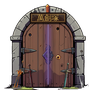
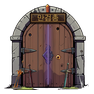
만검총 plaque in Hangul
Claude-Session: https://claude.ai/code/session_01XrBwXBqX3owjaJbW5W7iUD

Changed region(s): [[0.383, 0.1489, 0.6383, 0.234]]

diff --git a/MagicSwordsman/tools/relic_art/export_mangeomchong.py b/MagicSwordsman/tools/relic_art/export_mangeomchong.py
@@ -1,0 +1,21 @@
+from rembg import remove, new_session
+from PIL import Image, ImageFilter
+import numpy as np, cv2
+R='/home/user/Sts2/MagicSwordsman/MagicSwordsman/images/relics/'
+ses=new_session('isnet-general-use')
+for src,name in (('final_closed.png','mangeomchong'),('final_open.png','opened_mangeomchong')):
+    rgb=Image.open(src).convert('RGB'); cut=remove(rgb,session=ses)
+    a=np.array(cut); m=(a[...,3]>40).astype(np.uint8)*255
+    h,w=m.shape; mask=np.zeros((h+2,w+2),np.uint8); ff=m.copy(); cv2.floodFill(ff,mask,(0,0),128)
+    filled=(ff!=128); alpha=np.where(filled,255,0).astype(np.uint8)
+    cut=Image.fromarray(np.dstack([np.array(rgb),alpha])); cut=cut.crop(cut.getbbox())
+    for size,margin,path in ((256,10,R+'big/'+name+'.png'),(94,4,R+name+'.png')):
+        c=cut.copy(); sc=(size-2*margin)/max(c.size); c=c.resize((round(c.width*sc),round(c.height*sc)),Image.LANCZOS)
+        o=Image.new('RGBA',(size,size),(0,0,0,0)); o.alpha_composite(c,((size-c.width)//2,(size-c.height)//2)); o.save(path)
+        if size==94:
+            al=o.getchannel('A').point(lambda v:255 if v>30 else 0).filter(ImageFilter.MaxFilter(5))
+            ol=Image.new('RGBA',o.size,(255,255,255,0)); ol.putalpha(al); ol.save(R+name+'_outline.png')
+s=Image.new('RGBA',(256*2+94*2+40,256),(30,30,36,255))
+s.alpha_composite(Image.open(R+'big/mangeomchong.png'),(0,0)); s.alpha_composite(Image.open(R+'big/opened_mangeomchong.png'),(256,0))
+s.alpha_composite(Image.open(R+'mangeomchong.png'),(532,80)); s.alpha_composite(Image.open(R+'opened_mangeomchong.png'),(640,80))
+s.convert('RGB').save('icons.jpg')

diff --git a/MagicSwordsman/tools/relic_art/compose_mangeomchong.py b/MagicSwordsman/tools/relic_art/compose_mangeomchong.py
@@ -26,7 +26,7 @@ def plaque(img,y0=96):
     for i in range(26):
         yy=rng.integers(y0+10,y1-10); d.line([(x0+10,yy),(x1-10,yy+rng.integers(-3,4))],fill=(44,27,20,140),width=int(rng.integers(1,3)))
     d.rounded_rectangle((x0+13,y0+13,x1-13,y1-13),5,outline=(170,128,60,255),width=3)
-    txt='萬劍塚'; bb=d.textbbox((0,0),txt,font=f); tw,th=bb[2]-bb[0],bb[3]-bb[1]
+    txt='만검총'; bb=d.textbbox((0,0),txt,font=f); tw,th=bb[2]-bb[0],bb[3]-bb[1]
     d.text(((x0+x1-tw)//2-bb[0]+2,(y0+y1-th)//2-bb[1]+3),txt,font=f,fill=(20,12,8,200))
     d.text(((x0+x1-tw)//2-bb[0],(y0+y1-th)//2-bb[1]),txt,font=f,fill=(214,170,84,255))
     pl=pl.filter(ImageFilter.GaussianBlur(0.6))

diff --git a/docs/card-art-credits.md b/docs/card-art-credits.md
@@ -396,4 +396,4 @@ The combat rig parts (`images/character/parts/*`) and `images/character/magic_sw
 
 ## 만검총 relic (2026-10-09)
 
-`images/relics/{mangeomchong,opened_mangeomchong}.png` (+ `_outline`, `big/`): a tomb gate in a stone arch generated with AI Horde (AlbedoBase XL, txt2img, then img2img denoise 0.5), composited in `tools/relic_art/compose_mangeomchong.py`: the 萬劍塚 plaque is drawn with WenQuanYi Zen Hei; the swords planted in front and floating in the open doorway are the mod's own sword sprites (`images/swords/`); the light seam and the violet doorway are drawn. Background removed with rembg.
+`images/relics/{mangeomchong,opened_mangeomchong}.png` (+ `_outline`, `big/`): a tomb gate in a stone arch generated with AI Horde (AlbedoBase XL, txt2img, then img2img denoise 0.5), composited in `tools/relic_art/compose_mangeomchong.py`: the 만검총 plaque (Hangul) is drawn with WenQuanYi Zen Hei; the swords planted in front and floating in the open doorway are the mod's own sword sprites (`images/swords/`); the light seam and the violet doorway are drawn. Background removed with rembg.
